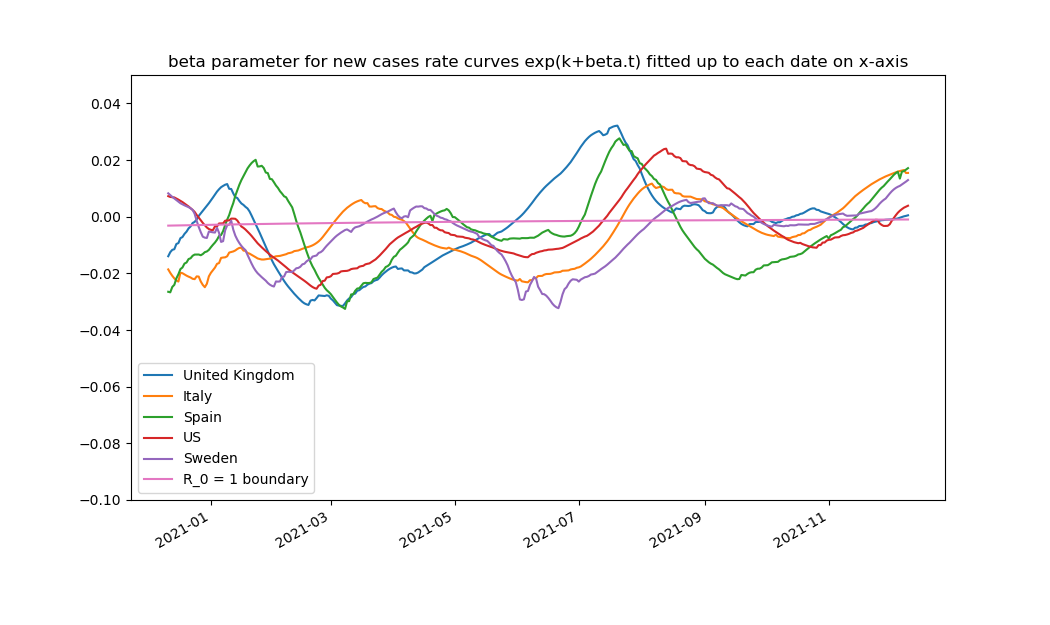
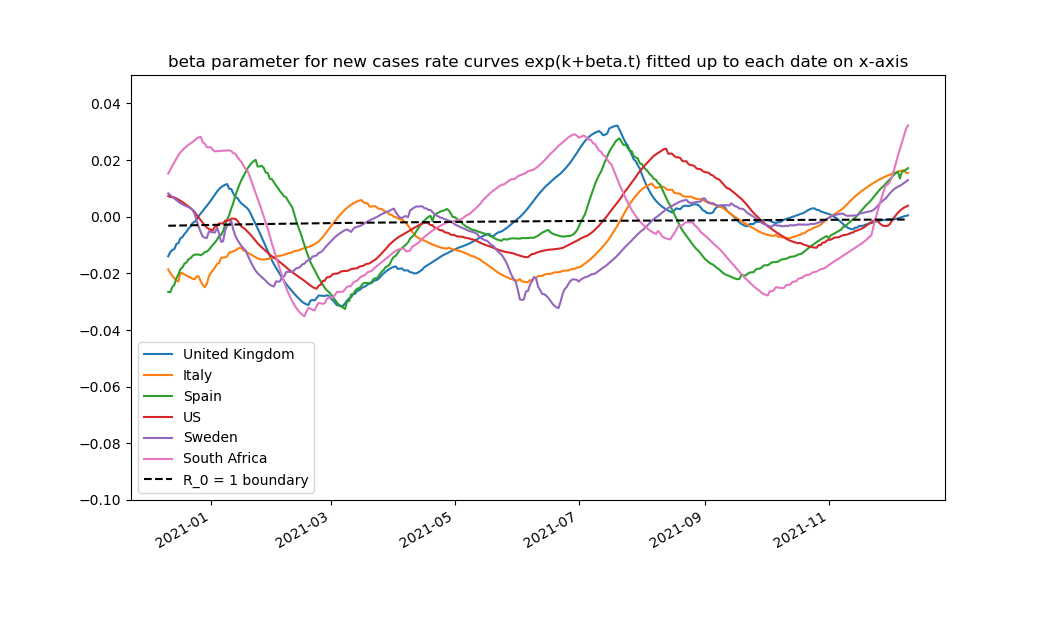
change beta R0 chart

diff --git a/covid19.py b/covid19.py
@@ -1106,7 +1106,7 @@ def main(country_list,
             except:
                 print('investigate_seasonality() failed for',selected_country) 
     #====================== plot evolution of beta parameters across countries
-    country_list = ['United Kingdom','Italy','Spain','US','Sweden'] #,'Australia']
+    country_list = ['United Kingdom','Italy','Spain','US','Sweden','South Africa'] #,'Australia']
     #Australia removed after bad data caused chart to shift back on 11dec2021
     beta_n_days = 365
     
